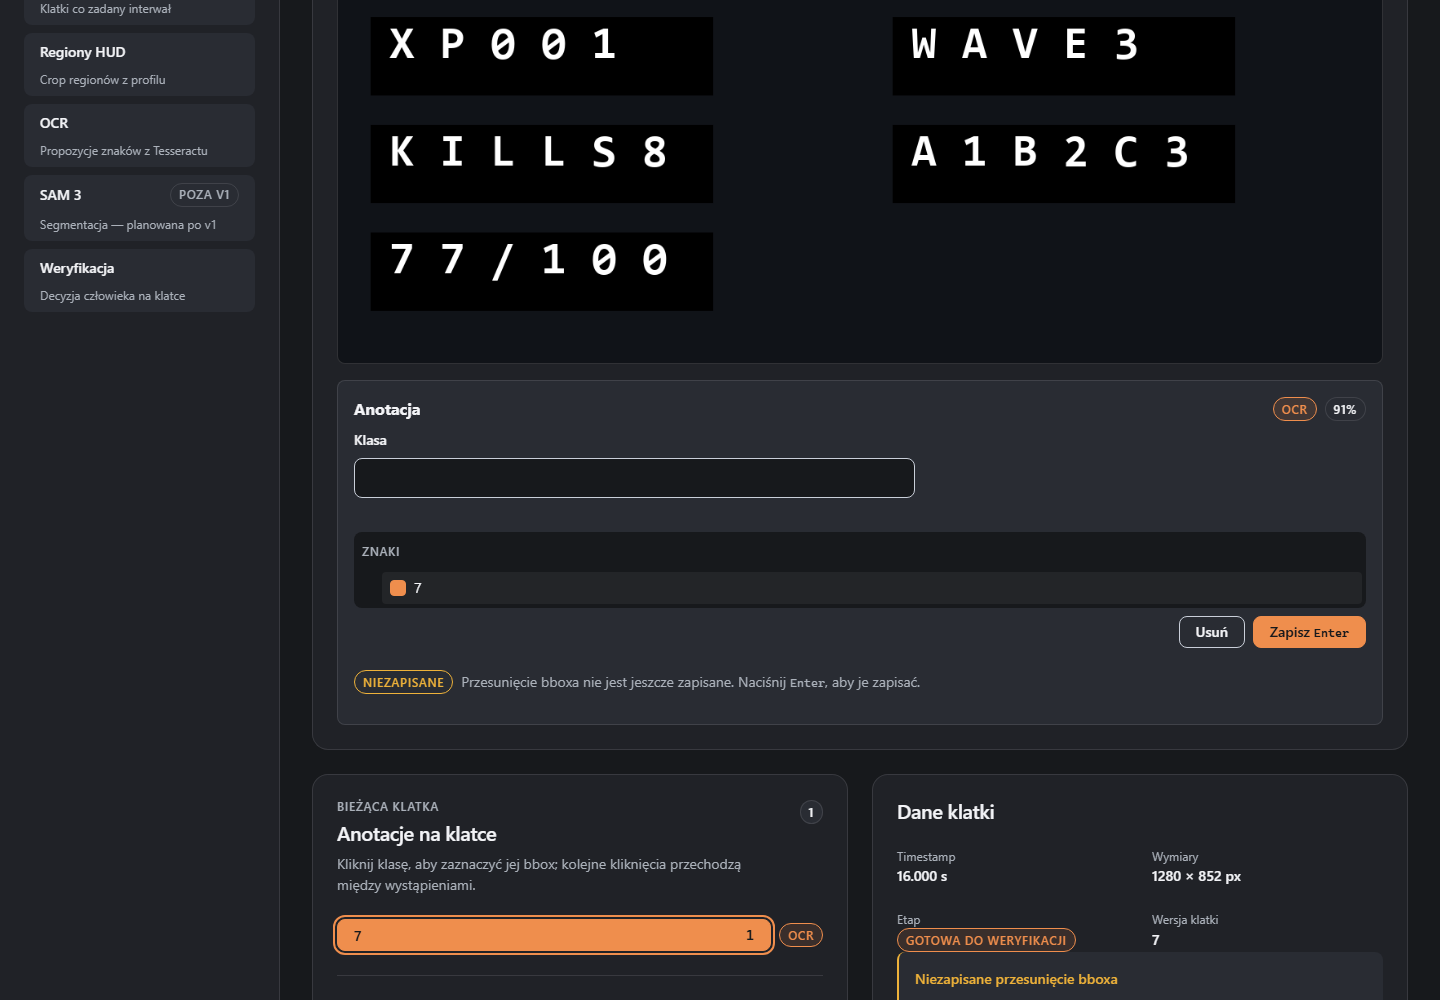
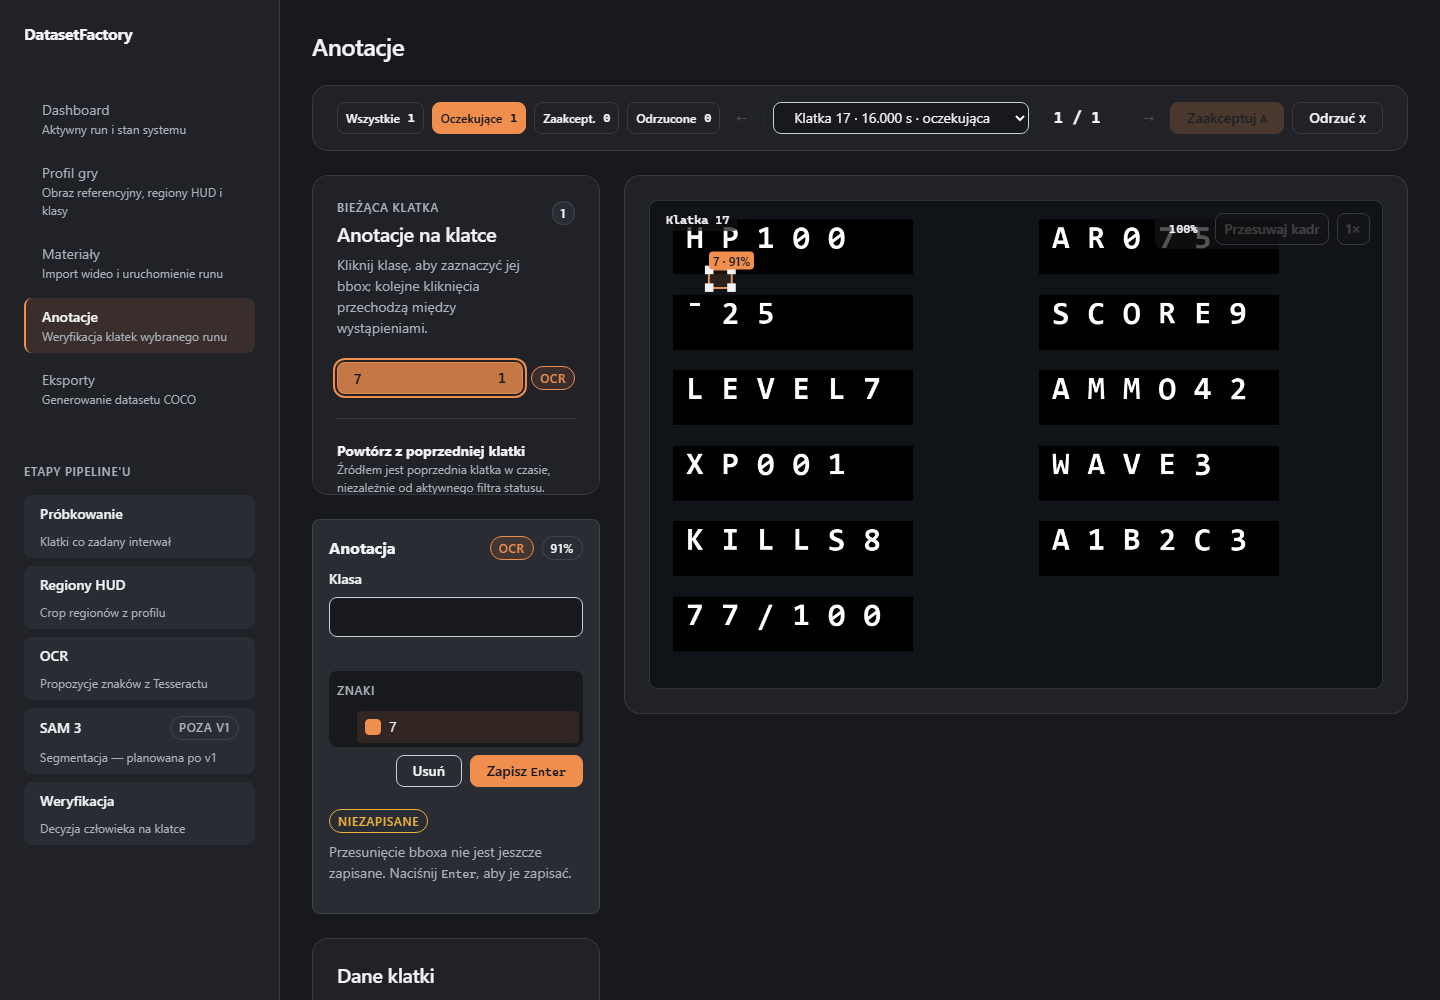
test(fe-014): assert the side column layout instead of the stacked one
Six assertions encoded the pre-FE-014 stacking. Each is replaced by the
horizontal form of the same invariant rather than dropped:

- panel below image -> panel.right <= image.left (fe011, fe012, visual-qa)
- inspector/details below canvas -> both end left of the canvas
- preview spans the toolbar -> preview spans it minus the 312 px column
- image width floors -> measured 571.98/731.98/1211.98 px less 2%
- FE-013 create action width -> panel width less padding and border,
  so the FIX2 invariant no longer encodes one panel width

The two Space contract tests grew a scrollability precondition: the
shorter page no longer overflows 1440x1000, so "Space still scrolls"
would have passed with Space fully suppressed.

Screenshots of earlier tickets are regenerated by their own specs.

diff --git a/frontend/e2e/visual-qa.spec.ts b/frontend/e2e/visual-qa.spec.ts
@@ -42,9 +42,11 @@ async function assertAnnotationPopoverIsDocked(page: Page): Promise<AnnotationVi
   if (popoverBounds === null || imageBounds === null) {
     throw new Error("Annotation panel or frame image has no browser geometry");
   }
-  expect(popoverBounds.y, "annotation panel must start below the frame image").toBeGreaterThanOrEqual(
-    imageBounds.y + imageBounds.height,
-  );
+  // FE-014 docks the panel in the side column, so "docked" is now horizontal.
+  expect(
+    popoverBounds.x + popoverBounds.width,
+    "annotation panel must end left of the frame image",
+  ).toBeLessThanOrEqual(imageBounds.x);
   const metrics = {
     image: { height: imageBounds.height, width: imageBounds.width },
     panel: { bottom: popoverBounds.y + popoverBounds.height, top: popoverBounds.y },
@@ -110,20 +112,28 @@ async function assertCompactReviewLayout(page: Page): Promise<void> {
     throw new Error("Review toolbar, canvas or supporting content has no browser geometry");
   }
   expect(overlayBounds.y, "review image should remain above the fold at 1000 px").toBeLessThan(600);
+  // FE-014: the canvas keeps the toolbar's right edge but yields the side
+  // column's fixed 288 px plus the 24 px gap on the left.
   expect(
     previewBounds.width,
-    "canvas row should span the same workspace width as the toolbar",
-  ).toBeGreaterThanOrEqual(toolbarBounds.width - 1);
+    "canvas row should span the workspace minus the side column",
+  ).toBeGreaterThanOrEqual(toolbarBounds.width - 312 - 1);
+  expect(
+    previewBounds.x + previewBounds.width,
+    "canvas row should end with the toolbar",
+  ).toBeGreaterThanOrEqual(toolbarBounds.x + toolbarBounds.width - 1);
   expect(
     overlayBounds.width,
     "review image should be wider than either supporting column",
   ).toBeGreaterThan(inspectorBounds.width);
-  expect(inspectorBounds.y, "class inspector should sit below the canvas").toBeGreaterThanOrEqual(
-    overlayBounds.y + overlayBounds.height,
-  );
-  expect(detailsBounds.y, "frame details should sit below the canvas").toBeGreaterThanOrEqual(
-    overlayBounds.y + overlayBounds.height,
-  );
+  expect(
+    inspectorBounds.x + inspectorBounds.width,
+    "class inspector should sit left of the canvas",
+  ).toBeLessThanOrEqual(overlayBounds.x);
+  expect(
+    detailsBounds.x + detailsBounds.width,
+    "frame details should sit left of the canvas",
+  ).toBeLessThanOrEqual(overlayBounds.x);
   expect(toolbarBounds.y + toolbarBounds.height, "toolbar should precede the canvas").toBeLessThanOrEqual(
     overlayBounds.y,
   );
@@ -447,11 +457,12 @@ test("pełnoszeroka kanwa, celownik, zoom i pan zachowują źródłową geometri
     throw new Error("FE-010 layout has no browser geometry");
   }
   // This fixture is 1280×852, so the viewport-height cap binds before the
-  // available full row does. The real 16:9 frame used for visual QA exceeds
-  // 980 px; this less-wide fixture should still clear 800 px.
-  expect(imageBounds.width).toBeGreaterThan(800);
-  expect(inspectorBounds.y).toBeGreaterThanOrEqual(imageBounds.y + imageBounds.height);
-  expect(detailsBounds.y).toBeGreaterThanOrEqual(imageBounds.y + imageBounds.height);
+  // available row does. After FE-014 took 312 px for the side column, the
+  // measured width at 1440×1000 is 731.98 px; the floor is that less 2% for
+  // font-metric drift, rounded down to 10 px.
+  expect(imageBounds.width).toBeGreaterThan(710);
+  expect(inspectorBounds.x + inspectorBounds.width).toBeLessThanOrEqual(imageBounds.x);
+  expect(detailsBounds.x + detailsBounds.width).toBeLessThanOrEqual(imageBounds.x);
 
   const center = {
     x: initial.x + initial.width / 2,
@@ -716,6 +727,24 @@ test("Space zachowuje natywny przycisk bez panu i blokuje go po panie", async ({
   expect(deletesAfterNativeReset).toHaveLength(0);
 });
 
+/*
+ * FE-014 capped the side column, so the review screen at 1440×1000 no longer
+ * overflows the viewport. "Space away from the canvas still scrolls" would
+ * then pass with Space fully suppressed, because there is nothing to scroll.
+ * Shrink the viewport until the document really does overflow, and fail here
+ * rather than let the contract assertion go vacuous.
+ */
+async function makeDocumentScrollable(page: Page): Promise<void> {
+  await page.setViewportSize({ width: 1440, height: 600 });
+  await expect
+    .poll(() => page.evaluate(() => document.documentElement.scrollHeight - window.innerHeight))
+    .toBeGreaterThan(0);
+  await page.evaluate(() => {
+    window.scrollTo(0, 0);
+  });
+  await expect.poll(() => page.evaluate(() => window.scrollY)).toBe(0);
+}
+
 test("Space nad kanwą nie przewija dokumentu przy naturalnym fokusie body", async ({ page }) => {
   const api = new ApiHarness({ phase: "review" });
   await api.install(page);
@@ -761,7 +790,7 @@ test("Space nad kanwą nie przewija dokumentu przy naturalnym fokusie body", asy
   ).toHaveLength(0);
 
   await page.mouse.move(8, 8);
-  await page.evaluate(() => window.scrollTo(0, 0));
+  await makeDocumentScrollable(page);
   expect(await page.evaluate(() => document.activeElement === document.body)).toBe(true);
   await page.keyboard.press("Space");
   await page.waitForTimeout(100);
@@ -824,7 +853,7 @@ test("wciąż trzymany Space nie przewija dokumentu po zakończeniu panu poza ka
   ).toHaveLength(0);
 
   // No pan this hold: a held, repeating Space outside the canvas still scrolls.
-  await page.evaluate(() => window.scrollTo(0, 0));
+  await makeDocumentScrollable(page);
   await page.keyboard.down("Space");
   await page.keyboard.down("Space");
   await page.waitForTimeout(100);

diff --git a/frontend/src/features/annotations/annotationReviewFlow.test.tsx b/frontend/src/features/annotations/annotationReviewFlow.test.tsx
@@ -151,7 +151,7 @@ describe("annotation review query states", () => {
     expect(screen.getByText("7 · 91%")).toBeInTheDocument();
   });
 
-  it("orders the full-width canvas before inspector, metadata and notices", async () => {
+  it("orders the side column before the canvas and keeps metadata notices in the column", async () => {
     reviewApi({
       frame: frameDetailFixture({ review_status: "accepted" }),
     });
@@ -159,13 +159,22 @@ describe("annotation review query states", () => {
 
     const preview = await screen.findByRole("region", { name: "Podgląd klatki 17" });
     const overlay = within(preview).getByRole("listbox", { name: "Bbox anotacji na klatce" });
+    const sideColumn = screen.getByRole("complementary", { name: "Panele bieżącej klatki" });
     const inspector = screen.getByRole("region", { name: "Anotacje na klatce" });
-    const details = screen.getByText("Timestamp").closest(".df-review-workspace__details");
+    const details = screen
+      .getByText("Timestamp")
+      .closest<HTMLElement>(".df-review-workspace__details");
     const terminalNotice = screen.getByRole("status", { name: "Klatka zaakceptowana" });
 
     expect(details).not.toBeNull();
-    expect(preview.compareDocumentPosition(inspector) & Node.DOCUMENT_POSITION_FOLLOWING).toBeTruthy();
-    expect(preview.compareDocumentPosition(details as Element) & Node.DOCUMENT_POSITION_FOLLOWING).toBeTruthy();
+    expect(sideColumn).toContainElement(inspector);
+    expect(sideColumn).toContainElement(details);
+    expect(
+      inspector.compareDocumentPosition(details as Element) & Node.DOCUMENT_POSITION_FOLLOWING,
+    ).toBeTruthy();
+    expect(
+      sideColumn.compareDocumentPosition(preview) & Node.DOCUMENT_POSITION_FOLLOWING,
+    ).toBeTruthy();
     expect(preview).not.toContainElement(terminalNotice);
     expect(details).toContainElement(terminalNotice);
     expect(overlay.closest(".df-region-overlay")).toContainElement(
@@ -192,10 +201,15 @@ describe("annotation review query states", () => {
     const dialog = screen.getByRole("dialog", { name: "Edytuj anotację 7" });
     expect(dialog).toBeVisible();
     const preview = screen.getByRole("region", { name: "Podgląd klatki 17" });
+    const sideColumn = screen.getByRole("complementary", { name: "Panele bieżącej klatki" });
+    const inspector = screen.getByRole("region", { name: "Anotacje na klatce" });
+    const details = screen.getByRole("region", { name: "Dane klatki" });
     const overlayRoot = overlay.closest(".df-region-overlay");
     expect(overlayRoot).not.toBeNull();
-    expect(dialog.parentElement).toBe(preview);
-    expect(dialog.previousElementSibling).toBe(overlayRoot);
+    expect(dialog.parentElement).toBe(sideColumn);
+    expect(dialog.previousElementSibling).toBe(inspector);
+    expect(dialog.nextElementSibling).toBe(details);
+    expect(sideColumn.nextElementSibling).toBe(preview);
     expect(overlayRoot).not.toContainElement(dialog);
 
     await user.click(classHealth);

diff --git a/frontend/e2e/fe011-visual-qa.spec.ts b/frontend/e2e/fe011-visual-qa.spec.ts
@@ -12,8 +12,8 @@ const screenshotDirectory = path.resolve(
 );
 
 interface ViewportMetrics {
-  image: { height: number; width: number };
-  panel: { bottom: number; top: number };
+  image: { height: number; left: number; width: number };
+  panel: { bottom: number; right: number; top: number };
   viewport: { height: number; width: number };
 }
 
@@ -38,12 +38,18 @@ async function openEditedFrame(
   }
 
   const metrics = {
-    image: { height: imageBounds.height, width: imageBounds.width },
-    panel: { bottom: panelBounds.y + panelBounds.height, top: panelBounds.y },
+    image: { height: imageBounds.height, left: imageBounds.x, width: imageBounds.width },
+    panel: {
+      bottom: panelBounds.y + panelBounds.height,
+      right: panelBounds.x + panelBounds.width,
+      top: panelBounds.y,
+    },
     viewport,
   };
-  expect(metrics.panel.top, "panel must remain below the image").toBeGreaterThanOrEqual(
-    imageBounds.y + imageBounds.height,
+  // FE-014 moved the panel out from under the canvas into the side column, so
+  // the invariant is horizontal now: the panel ends before the image begins.
+  expect(metrics.panel.right, "panel must remain left of the image").toBeLessThanOrEqual(
+    metrics.image.left,
   );
   expect(metrics.panel.bottom, "panel must fit in the viewport").toBeLessThanOrEqual(
     viewport.height + 0.5,
@@ -71,9 +77,15 @@ test("FE-011 daje obrazowi szerokość viewportu i pokazuje pan bez skrótów", 
       await openEditedFrame(page, viewport);
   }
 
-  expect(measurements["1280x1000"]?.image.width).toBeGreaterThan(860);
-  expect(measurements["1440x1000"]?.image.width).toBeGreaterThan(1000);
-  expect(measurements["1920x1080"]?.image.width).toBeGreaterThanOrEqual(1279);
+  /*
+   * FE-014 pays a fixed 312 px (288 px column + 24 px gap) out of the preview
+   * track. The thresholds are the widths measured after that move — 571.98,
+   * 731.98 and 1211.98 px — less 2% for font-metric drift, floored to 10 px.
+   * They are floors on what the operator gets, not a record of one run.
+   */
+  expect(measurements["1280x1000"]?.image.width).toBeGreaterThan(560);
+  expect(measurements["1440x1000"]?.image.width).toBeGreaterThan(710);
+  expect(measurements["1920x1080"]?.image.width).toBeGreaterThanOrEqual(1180);
 
   await openEditedFrame(page, { width: 1440, height: 1000 });
   const canvas = page.locator(".df-region-overlay");

diff --git a/frontend/src/features/annotations/annotationNudgeFixup.test.tsx b/frontend/src/features/annotations/annotationNudgeFixup.test.tsx
@@ -553,6 +553,22 @@ describe("FE-009-FIX1 — Enter belongs to the focused control inside the panel"
       expected_version: 3,
     });
   });
+
+  it("treats frame details as outside the annotation panel and discards the preview", async () => {
+    const user = userEvent.setup();
+    const fetchSpy = reviewApi();
+    renderApp(["/annotations/run-1"]);
+
+    await screen.findByRole("listbox", { name: "Bbox anotacji na klatce" });
+    await selectAndNudge(user);
+
+    await user.click(screen.getByRole("region", { name: "Dane klatki" }));
+
+    expect(screen.queryByRole("dialog", { name: "Edytuj anotację 7" })).not.toBeInTheDocument();
+    expect(overlayShape()).toHaveAttribute("aria-label", expect.stringContaining("x 100, y 120"));
+    expect(screen.queryByText("Niezapisane")).not.toBeInTheDocument();
+    expect(geometryPatches(fetchSpy)).toHaveLength(0);
+  });
 });
 
 describe("FE-009-FIX1 — an unsaved nudge is visible and blocks acceptance", () => {

diff --git a/frontend/e2e/fe013-visual-qa.spec.ts b/frontend/e2e/fe013-visual-qa.spec.ts
@@ -42,7 +42,13 @@ test("FE-013 pokazuje jawną akcję utworzenia klasy bez efektu pustego Enter", 
   }
   expect(panelBounds.x + panelBounds.width).toBeLessThanOrEqual(1440.5);
   expect(panelBounds.y + panelBounds.height).toBeLessThanOrEqual(900.5);
-  expect(actionBounds.width).toBeGreaterThan(320);
+  /*
+   * FE-013-FIX2: the create action owns the panel's whole content track. The
+   * old absolute floor of 320 px encoded the panel's pre-FE-014 width; in the
+   * 288 px side column the same invariant is the panel width less its padding
+   * (2 × 16 px) and border (2 × 1 px).
+   */
+  expect(actionBounds.width).toBeGreaterThanOrEqual(panelBounds.width - 34);
 
   await mkdir(screenshotDirectory, { recursive: true });
   await writeFile(

diff --git a/frontend/e2e/fe012-visual-qa.spec.ts b/frontend/e2e/fe012-visual-qa.spec.ts
@@ -70,8 +70,9 @@ test("FE-012 panel bez sekcji geometrii nadal pokazuje niezapisane przesunięcie
     };
   });
 
-  expect(panelBounds.y, "panel must remain below the canvas").toBeGreaterThanOrEqual(
-    imageBounds.y + imageBounds.height,
+  // FE-014 docks the panel in the side column, left of the canvas.
+  expect(panelBounds.x + panelBounds.width, "panel must remain left of the canvas").toBeLessThanOrEqual(
+    imageBounds.x,
   );
   expect(panelBounds.y + panelBounds.height, "panel must fit in the viewport").toBeLessThanOrEqual(
     1000.5,
